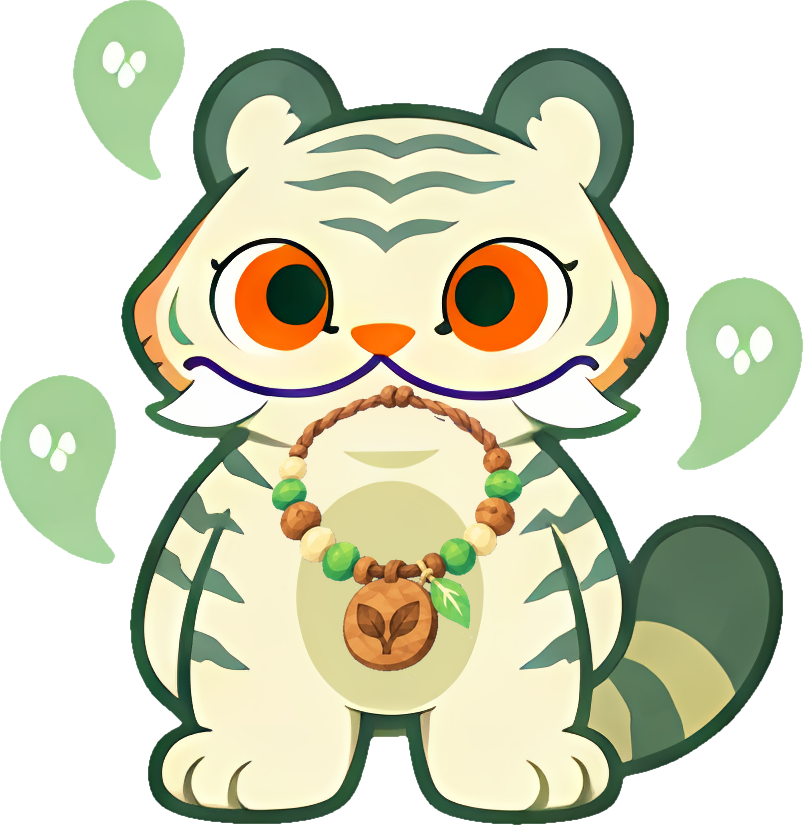
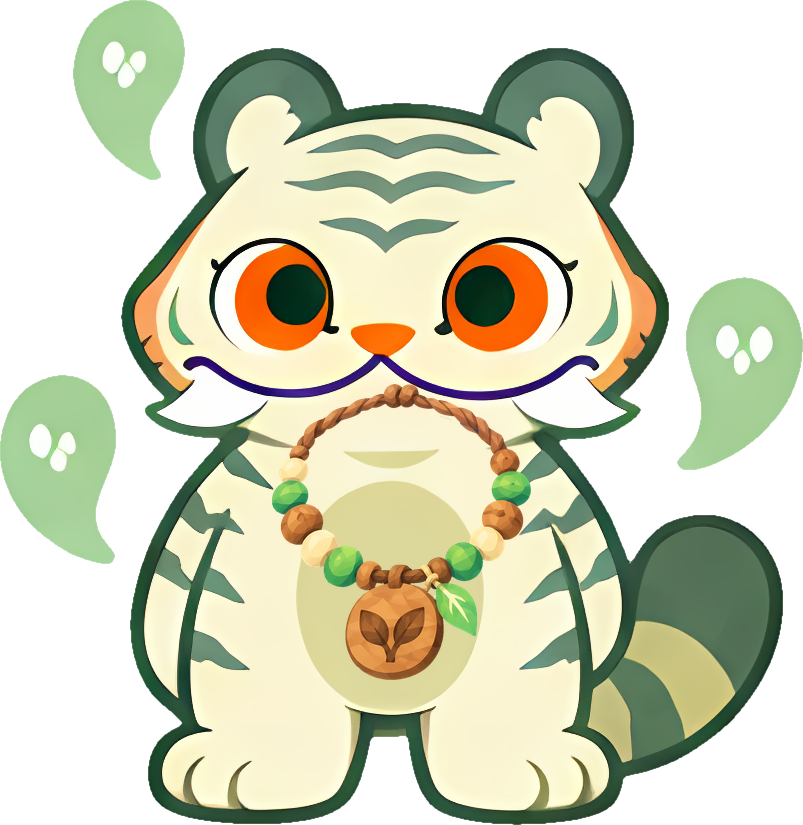
Tủ đồ: dress the companion in layers instead of pasting items on top
fit_preview.dress(): body → item shadow on the fur → neck item → head front
(chin over the scarf) → head item → ears front (small hats) → hand item →
paw front. --sheet renders every item worn, --rig exports the pose layers
and draw order for the app. Plus more AI re-cut items (v2).

Claude-Session: https://claude.ai/code/session_014qHujtA2z4ZRALee3926PQ

Changed region(s): [[0.3425, 0.4545, 0.6849, 0.8485]]

diff --git a/scripts/fit_preview.py b/scripts/fit_preview.py
@@ -1,26 +1,34 @@
 #!/usr/bin/env python3
-"""Try Tủ đồ items on a companion: composite item PNGs onto a pose at its anchors.
+"""Dress a companion in Tủ đồ items (layered, not pasted on top).
+
+The pose is split into occluding parts so items read as worn:
+  body → item shadow on the fur → neck items → head front (chin, cheeks, fangs over the
+  scarf's top edge) → head items → ears front (small hats: ears poke through) →
+  hand items → paw front (the paw closes over the grip)
+Geometry lives in prompts/closet/items.json -> anchors.<companion> ("layers": fractions of the
+pose). Per item "fit": {"scale", "dx", "dy", "ears": "front" | "covered"}.
 
 Uses the approved file if there is one, else the newest gen file, unless --file is given.
-Anchors live in prompts/closet/items.json -> "anchors".
-Output: assets/closet/fit/<companion>-<ids>.png
 
 Examples:
   python3 scripts/fit_preview.py --id mu-la
   python3 scripts/fit_preview.py --id mu-la khan-ran ong-nhom-tre     # full outfit
-  python3 scripts/fit_preview.py --id mu-la --file assets/closet/gen/mu-la-v2.png
+  python3 scripts/fit_preview.py --sheet                               # every item worn, one sheet
+  python3 scripts/fit_preview.py --rig                                 # export the pose layers for the app
 """
 import argparse
 import json
 import sys
 from pathlib import Path
 
-from PIL import Image
+from PIL import Image, ImageChops, ImageDraw, ImageFilter, ImageFont
 
 ROOT = Path(__file__).resolve().parent.parent
 CLOSET = json.loads((ROOT / "prompts/closet/items.json").read_text(encoding="utf-8"))
 OUT = ROOT / "assets/closet/fit"
-LAYER = {"hand": 0, "neck": 1, "head": 2}  # drawn back to front
+RIG = ROOT / "assets/closet/rig"
+LAYER = {"hand": 0, "neck": 1, "head": 2}
+FONT = "/usr/share/fonts/truetype/dejavu/DejaVuSans.ttf"
 
 
 def item_file(item_id):
@@ -32,8 +40,8 @@ def item_file(item_id):
     return gens[-1] if gens else None
 
 
-def place(base, art, slot, anchor, tweak, W, H, pad):
-    """Anchors are fractions of the pose (W x H); the canvas is padded by `pad` px."""
+def place(art, slot, anchor, tweak, W, H, pad, canvas):
+    """The item on its own transparent canvas, positioned at its anchor."""
     art = art.crop(art.getbbox())  # trim transparent margin
     scale = tweak.get("scale", 1.0)
     if slot == "hand":
@@ -47,56 +55,183 @@ def place(base, art, slot, anchor, tweak, W, H, pad):
     y = (anchor["y"] + tweak.get("dy", 0)) * H
     if slot != "neck":  # head and hand: anchor is the item's bottom edge
         y -= h
-    base.alpha_composite(art, (round(x) + pad, round(y) + pad))
+    layer = Image.new("RGBA", canvas)
+    layer.alpha_composite(art, (round(x) + pad, round(y) + pad))
+    return layer
 
 
-def try_on(ids, companion="huhu", files=None):
-    """Composite the given items onto the companion pose; returns the output path."""
-    by_id = {i["id"]: i for i in CLOSET["items"]}
+def part_masks(geo, W, H, pad, canvas):
+    """Occluding parts of the pose as L masks on the padded canvas."""
+    def pt(p):
+        return (p[0] * W + pad, p[1] * H + pad)
+
+    head = Image.new("L", canvas)
+    chin = [pt(p) for p in geo["chin"]]  # left to right along the jaw
+    ImageDraw.Draw(head).polygon([(0, 0), (canvas[0], 0), (canvas[0], chin[-1][1])] + chin[::-1] + [(0, chin[0][1])],
+                                 fill=255)
+    ears = Image.new("L", canvas)
+    d = ImageDraw.Draw(ears)
+    for e in geo["ears"]:
+        cx, cy = pt((e["x"], e["y"]))
+        rx, ry = e["rx"] * W, e["ry"] * H
+        d.ellipse([cx - rx, cy - ry, cx + rx, cy + ry], fill=255)
+    d.rectangle([0, geo["ear_cut"] * H + pad, canvas[0], canvas[1]], fill=0)  # only above the head line
+    paw = Image.new("L", canvas)
+    p = geo["paw"]
+    cx, cy = pt((p["x"], p["y"]))
+    ImageDraw.Draw(paw).ellipse([cx - p["rx"] * W, cy - p["ry"] * H, cx + p["rx"] * W, cy + p["ry"] * H], fill=255)
+    soft = ImageFilter.GaussianBlur(1.2)
+    return {k: v.filter(soft) for k, v in (("head", head), ("ears", ears), ("paw", paw))}
+
+
+def cut(pose, mask):
+    part = pose.copy()
+    part.putalpha(ImageChops.multiply(pose.getchannel("A"), mask))
+    return part
+
+
+def shadow(items, pose, H):
+    """Soft contact shadow of the items, only where it falls on the fur."""
+    a = Image.new("L", pose.size)
+    for layer in items:
+        a = ImageChops.lighter(a, layer.getchannel("A"))
+    a = ImageChops.offset(a, 0, round(H * 0.008)).filter(ImageFilter.GaussianBlur(H * 0.006))
+    a = ImageChops.multiply(a, pose.getchannel("A")).point(lambda v: v * 0.28)
+    sh = Image.new("RGBA", pose.size, (59, 82, 61, 0))
+    sh.putalpha(a)
+    return sh
+
+
+def setup(companion):
     anchors = CLOSET["anchors"][companion]
+    pose = Image.open(ROOT / anchors["pose"]).convert("RGBA")
+    W, H = pose.size
+    pad = H // 2  # room for tall hats and long hand items
+    canvas = (W + 2 * pad, H + 2 * pad)
+    base = Image.new("RGBA", canvas)
+    base.alpha_composite(pose, (pad, pad))
+    return anchors, base, W, H, pad, canvas
+
+
+def dress(ids, companion="huhu", files=None):
+    """The companion wearing the items, as an RGBA image (cropped)."""
+    by_id = {i["id"]: i for i in CLOSET["items"]}
     if files and len(files) != len(ids):
         raise ValueError("one file per id")
+    anchors, base, W, H, pad, canvas = setup(companion)
 
-    layers = []
+    layers = {}
     for n, item_id in enumerate(ids):
         it = by_id.get(item_id)
         if not it or it["slot"] not in LAYER:
             raise ValueError(f"{item_id}: unknown id or not wearable")
+        if it["slot"] in layers:
+            raise ValueError("one item per slot")
         path = (ROOT / files[n]) if files else item_file(item_id)
         if not path or not path.exists():
             raise ValueError(f"{item_id}: no PNG yet (run gen_closet.py or split_sheet.py first)")
-        layers.append((LAYER[it["slot"]], it, path))
+        tweak = it.get("fit", {})
+        layers[it["slot"]] = (it, place(Image.open(path).convert("RGBA"), it["slot"], anchors[it["slot"]],
+                                        tweak, W, H, pad, canvas))
 
-    slots = [it["slot"] for _, it, _ in layers]
-    if len(slots) != len(set(slots)):
-        raise ValueError("one item per slot")
+    geo = anchors.get("layers")
+    out = base.copy()
+    if not geo:  # no part geometry for this companion: plain stacking
+        for slot in ("hand", "neck", "head"):
+            if slot in layers:
+                out.alpha_composite(layers[slot][1])
+        return out.crop(out.getbbox())
 
-    pose = Image.open(ROOT / anchors["pose"]).convert("RGBA")
-    W, H = pose.size
-    pad = H // 2  # room for tall hats and long hand items
-    base = Image.new("RGBA", (W + 2 * pad, H + 2 * pad))
-    base.alpha_composite(pose, (pad, pad))
-    for _, it, path in sorted(layers, key=lambda layer: layer[0]):
-        place(base, Image.open(path).convert("RGBA"), it["slot"], anchors[it["slot"]], it.get("fit", {}), W, H, pad)
-    base = base.crop(base.getbbox())
+    masks = part_masks(geo, W, H, pad, canvas)
+    out.alpha_composite(shadow([layer for _, layer in layers.values()], base, H))
+    if "neck" in layers:
+        out.alpha_composite(layers["neck"][1])
+        out.alpha_composite(cut(base, masks["head"]))
+    if "head" in layers:
+        it, layer = layers["head"]
+        out.alpha_composite(layer)
+        if it.get("fit", {}).get("ears", "front") == "front":
+            out.alpha_composite(cut(base, masks["ears"]))
+    if "hand" in layers:
+        out.alpha_composite(layers["hand"][1])
+        out.alpha_composite(cut(base, masks["paw"]))
+    return out.crop(out.getbbox())
 
+
+def try_on(ids, companion="huhu", files=None):
+    """Dress and save; returns the output path."""
     OUT.mkdir(parents=True, exist_ok=True)
     out = OUT / f"{companion}-{'+'.join(ids)}.png"
-    base.save(out)
+    dress(ids, companion, files).save(out)
+    return out
+
+
+def export_rig(companion="huhu"):
+    """Pose layers + order for the app (same compositing as dress())."""
+    anchors, base, W, H, pad, canvas = setup(companion)
+    masks = part_masks(anchors["layers"], W, H, pad, canvas)
+    box = (pad, pad, pad + W, pad + H)
+    folder = RIG / f"{companion}-front"
+    folder.mkdir(parents=True, exist_ok=True)
+    base.crop(box).save(folder / "body.png")
+    for k in ("head", "ears", "paw"):
+        cut(base, masks[k]).crop(box).save(folder / f"{k}-front.png")
+    order = {
+        "_note": "Draw back to front. All layers share the pose size; item anchors are fractions of it.",
+        "order": ["body.png", "item shadow (items' alpha, offset 0.8% H, blur 0.6% H, #3B523D 28%, clipped to body)",
+                  "neck item", "head-front.png (only when a neck item is worn)", "head item",
+                  "ears-front.png (only when the head item's fit.ears is 'front')", "hand item", "paw-front.png"],
+        "anchors": {k: v for k, v in anchors.items() if k in ("head", "neck", "hand")},
+        "items": {i["id"]: i.get("fit", {}) for i in CLOSET["items"] if i["slot"] in LAYER},
+    }
+    (folder / "rig.json").write_text(json.dumps(order, ensure_ascii=False, indent=2) + "\n", encoding="utf-8")
+    return folder
+
+
+def sheet(companion="huhu", cell=320, cols=6):
+    """Every wearable item worn by the companion, labelled, plus a few full outfits."""
+    wear = [i for i in CLOSET["items"] if i["slot"] in LAYER and item_file(i["id"])]
+    outfits = [o for o in CLOSET.get("outfits", []) if all(item_file(x) for x in o["ids"])]
+    cards = [(i["name"], [i["id"]]) for i in wear] + [(o["name"], o["ids"]) for o in outfits]
+    try:
+        font = ImageFont.truetype(FONT, 17)
+    except OSError:
+        font = ImageFont.load_default()
+    rows = (len(cards) + cols - 1) // cols
+    img = Image.new("RGB", (cols * cell, rows * (cell + 30)), (251, 244, 228))
+    d = ImageDraw.Draw(img)
+    for k, (name, ids) in enumerate(cards):
+        x, y = (k % cols) * cell, (k // cols) * (cell + 30)
+        dressed = dress(ids, companion)
+        dressed.thumbnail((cell - 16, cell - 16))
+        img.paste(dressed, (x + (cell - dressed.width) // 2, y + (cell - dressed.height) // 2), dressed)
+        d.text((x + cell // 2, y + cell + 4), name, fill=(27, 42, 107), font=font, anchor="mt")
+    OUT.mkdir(parents=True, exist_ok=True)
+    out = OUT / f"_sheet-{companion}-mac-do.png"
+    img.save(out)
     return out
 
 
 def main():
     ap = argparse.ArgumentParser(description=__doc__, formatter_class=argparse.RawDescriptionHelpFormatter)
-    ap.add_argument("--id", nargs="+", required=True, help="item ids (one per slot)")
+    ap.add_argument("--id", nargs="+", help="item ids (one per slot)")
     ap.add_argument("--file", nargs="+", type=Path, help="explicit PNG per id, same order")
     ap.add_argument("--companion", default="huhu", choices=[k for k in CLOSET["anchors"] if not k.startswith("_")])
+    ap.add_argument("--sheet", action="store_true", help="every item worn, one labelled sheet")
+    ap.add_argument("--rig", action="store_true", help="export the pose layers + order for the app")
     args = ap.parse_args()
-    try:
-        out = try_on(args.id, args.companion, args.file)
-    except ValueError as e:
-        sys.exit(str(e))
-    print(out.relative_to(ROOT))
+    if args.rig:
+        print(export_rig(args.companion).relative_to(ROOT))
+    if args.sheet:
+        print(sheet(args.companion).relative_to(ROOT))
+    if args.id:
+        try:
+            out = try_on(args.id, args.companion, args.file)
+        except ValueError as e:
+            sys.exit(str(e))
+        print(out.relative_to(ROOT))
+    if not (args.rig or args.sheet or args.id):
+        ap.error("give --id, --sheet or --rig")
 
 
 if __name__ == "__main__":
